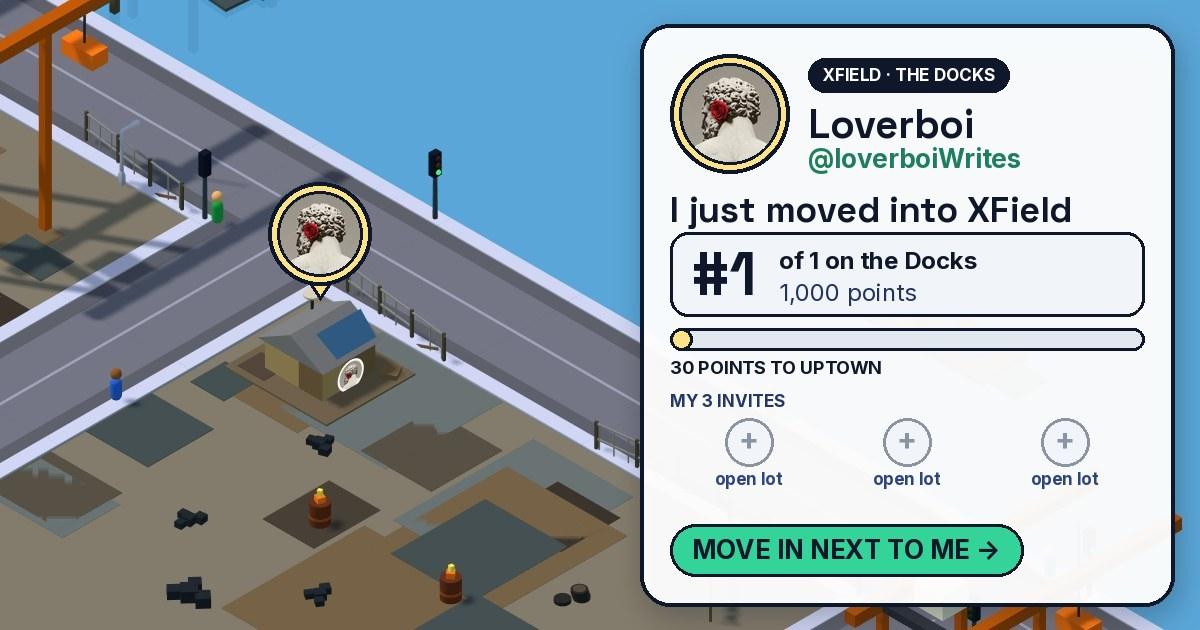
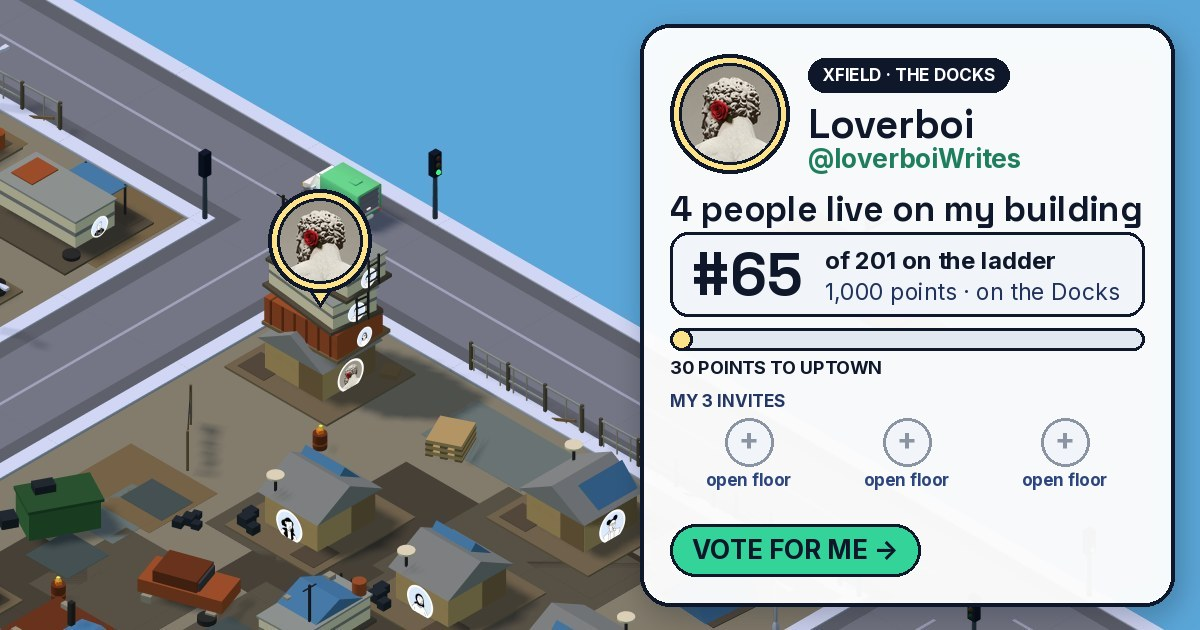
## The city now builds upward when it's full, with towers featuring their own leaderboard, paper coverage, and share card
I have implemented upward building when the city reaches its 200-spot limit and added tower-related features. Floors stack correctly as tested in preview, and the towers features are in place. The tests I ran, both on the server and within the app, met the specified checks. I also applied and re-verified small fixes.

- **Floors:** When ground spots fill, newcomers move onto floors of buildings, tied to who invited or shared the link, or the shortest building on the Docks. The design varies between Docks (tarp roof) and Uptown (glass with roof garden), and residents' faces appear on their floors.
- **Sample city:** 251 residents fill the 200 ground spots, with 52 floors stacked. The tallest building has 10 floors. Resident faces are stored app-side due to free avatar service limits.
- **Building details:** Tapping a building shows residents and floor info, including rank.
- **Leaderboard:** Shows tallest buildings, highlighting your own.
- **Tower share card:** Owners can share a preview image and link.
- **Daily paper:** Features stories on tallest and fastest-growing towers.
- **Additional tweaks:** Updates to live ticker and share card wording.

**Please test these features and let me know if you notice any issues or if further in-depth testing is needed.**

**Known issue:** The initial 3D city load can take around 10 seconds due to model download – this existed before these updates.

Emergent-Commit-Key: 65c07d6a09fd191e2ce3cd3f4565219d0912441ca143c877883d98c128c2a4d5

diff --git a/frontend/src/city3d/Hud.jsx b/frontend/src/city3d/Hud.jsx
@@ -34,7 +34,7 @@ const XLink = ({ href, onClick, className = "", testId, children }) => (
   <a href={href} target="_blank" rel="noreferrer" onClick={onClick} data-testid={testId}
     className={`rounded-lg bg-ink px-2.5 py-1.5 text-center text-xs font-bold text-white whitespace-nowrap hover:bg-slate-700 ${className}`}>{children}</a>
 );
-const Close = ({ onClick }) => <button type="button" onClick={onClick} className="self-start text-ink/40 hover:text-ink text-lg leading-none">×</button>;
+const Close = ({ onClick, testId }) => <button type="button" onClick={onClick} data-testid={testId} className="self-start text-ink/40 hover:text-ink text-lg leading-none">×</button>;
 const Heading = ({ children }) => <div className="mt-2 mb-1 text-[10px] font-bold uppercase tracking-widest text-ink/50">{children}</div>;
 const nameOf = (d) => d?.name || "New district";
 const names = (ps) => ps.map((p) => `@${p.h}`).join(ps.length > 2 ? ", " : " and ");
@@ -277,7 +277,7 @@ function BuildingInfo({ b, k, share, onVisit }) {
         <span data-testid="house-building-line">🏢 {line}</span>
         {b.rank && <span className="shrink-0 text-ink/60 tabular-nums" data-testid="house-building-rank">#{b.rank} tallest</span>}
       </div>
-      <ol className="mt-1.5 flex max-h-40 flex-col gap-0.5 overflow-y-auto" data-testid="house-building-people">
+      <ol className="mt-1.5 flex max-h-56 flex-col gap-0.5 overflow-y-auto" data-testid="house-building-people">
         {b.people.map((p) => (
           <li key={p.k}>
             <button type="button" onClick={() => onVisit(p)} data-testid={`house-building-floor-${p.floor}`}
@@ -317,7 +317,7 @@ export function HouseCard({ house, nb, signedIn, onChanged, onLeft, onVisit, onC
             {nb && <> · <b style={{ color: nb.color }}>{nameOf(nb)}</b></>}
           </div>
         </div>
-        <Close onClick={onClose} />
+        <Close onClick={onClose} testId="house-card-close" />
       </div>
       {l && <div className="mt-2 text-xs"><Standing l={l} /></div>}
       {fresh && <BuildingInfo b={fresh.building} k={o.k} onVisit={onVisit}
@@ -337,7 +337,7 @@ export function AwayCard({ news, onVisit, onClose }) {
     <div className={`${CARD} pop w-[min(92vw,340px)] p-3 pointer-events-auto`}>
       <div className="flex items-center justify-between">
         <div className="font-display font-bold">While you were away</div>
-        <Close onClick={onClose} />
+        <Close onClick={onClose} testId="away-card-close" />
       </div>
       <ul className="mt-1.5 space-y-1 text-xs">
         {news.slice(0, 6).map((n) => (
@@ -387,9 +387,9 @@ export function PlaceCard({ id, town, city, me, onVisit, onClose }) {
     <div className={`${CARD} pop w-[min(92vw,360px)] p-3 pointer-events-auto`} data-testid={`place-card-${id}`}>
       <div className="flex items-center justify-between">
         <div className="font-display font-bold text-lg">{PLACES[id]}</div>
-        <Close onClick={onClose} />
+        <Close onClick={onClose} testId="place-card-close" />
       </div>
-      <div className="max-h-[55vh] overflow-y-auto">
+      <div className="max-h-[45vh] overflow-y-auto">
         {id === "hall" && <Hall town={town} onVisit={onVisit} />}
         {id === "timeline" && <Timeline events={town.ticker} />}
         {id === "post" && <PostOffice me={me} />}
@@ -424,7 +424,7 @@ function Towers({ town, homes, me, onVisit }) {
                 <span className="w-5 shrink-0 font-bold tabular-nums text-ink/50">{i + 1}.</span>
                 <Face p={h.owner} size={26} ring={h.owner.s === "f" ? WARM : "#CBD5E1"} dim={h.owner.s !== "f"} />
                 <span className="min-w-0 flex-1 leading-tight">
-                  <b className="block truncate">@{h.owner.h}'s building</b>
+                  <b className="block truncate">@{h.owner.h}</b>
                   <span className="text-[11px] text-ink/60">{areaOf(h.owner)} · {lit} lit{mine ? " · you live here" : ""}</span>
                 </span>
                 <span className="flex -space-x-1.5">

diff --git a/frontend/src/pages/CityPage.jsx b/frontend/src/pages/CityPage.jsx
@@ -189,6 +189,11 @@ export default function CityPage() {
   const visit = (p) => homeOf[p.k] && pick(homeOf[p.k]);
   const closePaper = () => {
     if (issue) localStorage.setItem("xf_paper", String(issue));
+    const url = new URL(window.location.href);
+    if (url.searchParams.has("place")) {
+      url.searchParams.delete("place");
+      window.history.replaceState(null, "", url.pathname + url.search);
+    }
     setPlace(null);
   };
   const markDone = (step) => api("/me/done", { method: "POST", body: { step } }).then(loadMe).catch(() => {});

diff --git a/backend/tests/test_floors_towers.py b/backend/tests/test_floors_towers.py
@@ -1,0 +1,133 @@
+"""XField 'building up' (floors + towers Phase 2) regression tests. Read-only against the preview DB."""
+import io
+import os
+import re
+
+import pytest
+import requests
+from PIL import Image
+
+BASE_URL = os.environ.get("REACT_APP_BACKEND_URL", "").rstrip("/")
+if not BASE_URL:
+    for line in open("/app/frontend/.env"):
+        if line.startswith("REACT_APP_BACKEND_URL="):
+            BASE_URL = line.split("=", 1)[1].strip().rstrip("/")
+API = f"{BASE_URL}/api"
+S = requests.Session()
+
+
+def res(h):
+    r = S.get(f"{API}/residents/{h}", timeout=30)
+    assert r.status_code == 200, r.text
+    return r.json()
+
+
+def jpeg(url, size=(1200, 630)):
+    r = S.get(url, timeout=60)
+    assert r.status_code == 200, r.status_code
+    assert r.headers["content-type"].startswith("image/jpeg")
+    im = Image.open(io.BytesIO(r.content))
+    assert im.format == "JPEG"
+    if size:
+        assert im.size == size, im.size
+    return im
+
+
+@pytest.fixture(scope="module")
+def town():
+    r = S.get(f"{API}/town", timeout=30)
+    assert r.status_code == 200
+    return r.json()
+
+
+# Town stats + floor residents
+class TestTown:
+    def test_stats(self, town):
+        st = town["stats"]
+        assert st["taken"] == 200 and st["capacity"] == 200 and st["floors"] >= 50, st
+
+    def test_floor_residents_geometry(self, town):
+        rs = town["residents"]
+        floors = [r for r in rs if r.get("lv") is not None and r.get("lv") >= 1]
+        assert len(floors) >= 50
+        assert all(r.get("on") in ("dock", "lot") for r in floors)
+        grounds = [r for r in rs if r.get("lv") is None]
+        dock_ground = {r["d"] for r in grounds if r.get("d") is not None}
+        lot_ground = {(r["x"], r["y"]) for r in grounds if r.get("d") is None}
+        for r in floors:
+            if r["on"] == "dock":
+                assert r.get("d") in dock_ground, r
+            else:
+                assert (r["x"], r["y"]) in lot_ground, r
+
+
+# Resident building block
+class TestBuilding:
+    @pytest.mark.parametrize("h,floor,size,area,rank", [
+        ("arjun_reads", 1, 10, "docks", 1), ("theo_makes", 1, 9, "uptown", 3),
+        ("jonas_trades", 1, 9, "uptown", 2), ("loverboiWrites", 1, 4, "docks", 4)])
+    def test_owner_buildings(self, h, floor, size, area, rank):
+        b = res(h)["building"]
+        assert (b["floor"], b["size"], b["area"], b["rank"]) == (floor, size, area, rank), b
+        assert b["of"] >= rank
+        assert b["people"][0]["floor"] == size  # top floor first
+        assert b["people"][-1]["floor"] == 1
+        assert all("s" in p for p in b["people"])
+        assert {"k", "h", "a"} <= set(b["base"])
+
+    def test_sana_floor2(self):
+        d = res("sana_sings")
+        assert d["building"]["floor"] == 2 and d["building"]["base"]["h"] == "theo_makes"
+        assert d["share"]["text"].startswith("I live on floor 2 of @theo_makes's building uptown in XField"), d["share"]["text"]
+        assert "tower_share" not in d
+
+    def test_single_home(self, town):
+        rs = town["residents"]
+        stacked_keys = {r.get("d") for r in rs if r.get("lv")} | {(r["x"], r["y"]) for r in rs if r.get("lv") and r.get("on") == "lot"}
+        single = next(r for r in rs if r.get("lv") is None and r.get("d") not in stacked_keys
+                      and (r["x"], r["y"]) not in stacked_keys and (r.get("d") is not None or True))
+        d = res(single["h"])
+        assert d["building"]["size"] == 1 and d["building"]["rank"] is None, d["building"]
+        assert "tower_share" not in d
+
+
+# Tower share text / card / OG page
+class TestTowerShare:
+    def test_tower_share_text(self):
+        t = res("arjun_reads")["tower_share"]
+        assert t["text"].startswith("My building in XField is 10 floors tall on the Docks, #1 tallest in the city."), t["text"]
+        assert "Move in on top" in t["text"]
+        assert re.search(r"/api/t/arjun_reads\?v=", t["url"]) and "/api/residents/arjun_reads/tower.jpg?v=" in t["card_url"]
+
+    def test_tower_jpg_owner_and_floor(self):
+        jpeg(res("theo_makes")["tower_share"]["card_url"])
+        jpeg(f"{API}/residents/sana_sings/tower.jpg")
+
+    def test_og_bot(self):
+        r = S.get(f"{API}/t/theo_makes", headers={"User-Agent": "Twitterbot/1.0"}, allow_redirects=False, timeout=30)
+        assert r.status_code == 200
+        assert "@theo_makes&#x27;s building is 9 floors tall" in r.text or "@theo_makes's building is 9 floors tall" in r.text
+        assert re.search(r'og:image"[^>]*tower\.jpg|tower\.jpg[^>]*og:image', r.text)
+
+    def test_redirect_human(self):
+        r = requests.get(f"{API}/t/sana_sings", headers={"User-Agent": "Mozilla/5.0"}, allow_redirects=False, timeout=30)
+        assert r.status_code == 302 and r.headers["location"].endswith("/?at=theo_makes"), r.headers
+        assert "xf_invite=theo_makes" in r.headers.get("set-cookie", ""), r.headers.get("set-cookie")
+
+    def test_share_card_floor(self):
+        jpeg(f"{API}/residents/sana_sings/card.jpg", size=None)
+
+
+# Ledger towers
+class TestPaper:
+    def test_paper_towers(self):
+        r = S.get(f"{API}/paper/latest", timeout=30)
+        assert r.status_code == 200
+        p = r.json()
+        assert p["issue"] >= 3
+        tw = p["towers"]
+        got = [(t["h"], t["size"]) for t in tw]
+        assert got == [("arjun_reads", 10), ("jonas_trades", 9), ("theo_makes", 9), ("loverboiWrites", 4), ("theo_sings", 4)], got
+        assert all({"k", "h", "a", "size", "area", "grew"} <= set(t) for t in tw)
+        assert p["heights"] and p["numbers"]["floors"] >= 50
+        jpeg(p["card_url"], size=None)

diff --git a/backend/tests/floors_events_sim.py b/backend/tests/floors_events_sim.py
@@ -1,0 +1,53 @@
+"""Throwaway-DB check of moved_in event fields (on_h, lv) for floor arrivals. Run: DB_NAME=floors_sim_ev TOWN_CAPACITY=2"""
+import asyncio
+import os
+import sys
+
+sys.path.insert(0, os.path.dirname(os.path.dirname(__file__)))
+import server  # noqa: E402
+
+db = server.db
+
+
+async def arrive(h, by=None):
+    fb = {"handle": h, "name": h.title(), "avatar_url": None, "host": "test"}
+    await server.run_move_in(h.lower(), h, by, True, fb)
+    return await db.residents.find_one({"k": h.lower()}, {"_id": 0})
+
+
+async def ev(h):
+    return await db.events.find_one({"h": h, "type": "moved_in"}, {"_id": 0})
+
+
+async def main():
+    assert os.environ["DB_NAME"] == "floors_sim_ev"
+    await db.client.drop_database("floors_sim_ev")
+    await arrive("Alice")
+    await arrive("Bob")
+    e = await ev("Alice")
+    print("ground event", e)
+    assert e and "on_h" not in e and "lv" not in e, e
+    c = await arrive("Cara", by="bob")
+    e = await ev("Cara")
+    print("floor via link event", e)
+    assert e["on_h"] == "Bob" and e["lv"] == 1 == c["lv"], e
+    d = await arrive("Dan", by="bob")
+    e = await ev("Dan")
+    print("floor 2 event", e)
+    assert e["on_h"] == "Bob" and e["lv"] == 2, e
+    f = await arrive("Fay")
+    e = await ev("Fay")
+    print("random arrival event", e)
+    assert e["on_h"] == "Alice" and e["lv"] == 1, e
+    fact = server.FACTS["moved_in"](e) if hasattr(server, "FACTS") and callable(server.FACTS.get("moved_in")) else None
+    print("fact", fact)
+    blds = await server.load_buildings()
+    bob = await db.residents.find_one({"k": "bob"}, {"_id": 0})
+    t = server.tower_payload(bob, blds)
+    print("tower", t["size"], t["rank"], t["of"], server.tower_text(t))
+    assert t["size"] == 3 and t["rank"] == 1
+    await db.client.drop_database("floors_sim_ev")
+    print("ALL GOOD")
+
+
+asyncio.run(main())

diff --git a/backend/server.py b/backend/server.py
@@ -85,7 +85,7 @@ PAPER_DIR.mkdir(parents=True, exist_ok=True)
 CIRCLE_SIZE = 8
 INVITES = 3
 SNAP_W, SNAP_H = 1200, 630
-CARD_VERSION = 3
+CARD_VERSION = 4
 SNAP_GAP = timedelta(seconds=20)
 MIN_PLAYERS = 3
 READ_TTL = timedelta(days=7)
@@ -779,7 +779,7 @@ async def card_payload(doc: dict, st: dict) -> dict:
     return {"rv": CARD_VERSION, "k": doc["k"], "h": doc["h"], "name": doc.get("name"), "moment": moment,
             "uptown": bool(doc.get("uptown")), "color": nb.get("color"),
             "invites": [{"k": p["k"], "h": p["h"], "s": p["s"]} for p in invites],
-            "floor": bld["floor"], "size": bld["size"], "base_h": bld["base"]["h"],
+            "floor": bld["floor"], "size": bld["size"], "base_h": bld["base"]["h"], "full": await count_taken() >= TOWN_CAPACITY,
             "nb_name": nb.get("name"), "tags": st["tags"], "by_h": doc.get("by_h"), "by_k": by["k"] if by else None, "score": mine, "start": arena.START,
             "line": arena.UPTOWN_AT, "rank": 1 + sum(arena.score(d) > mine for d in pool) if playing else None, "of": len(pool),
             "neighbours": [{"k": n["k"], "status": "reserved" if n["s"] == "r" else "finished"} for n in st["neighbours"]],
@@ -914,6 +914,7 @@ async def resident(handle: str, request: Request):
     bld = building_of(doc, blds)
     tower = tower_payload(doc, blds) if bld["size"] > 1 else None
     bld["rank"], bld["of"] = (tower["rank"], tower["of"]) if tower else stacks.rank_of(stacks.key_of(doc), blds)
+    tower = tower if bld["floor"] == 1 else None
     out = {"building": bld, "k": doc["k"], "h": doc["h"], "name": doc.get("name"), "avatar_url": doc.get("avatar_url"),
            "status": "finished" if doc["status"] == "finished" else "reserved", "x": doc["x"], "y": doc["y"],
            "tier": st["tier"], "tier_name": town.TIERS[st["tier"]], "inbound": st["inbound"], "by_h": doc.get("by_h"),

diff --git a/backend/share_card.py b/backend/share_card.py
@@ -200,9 +200,9 @@ def _rank(d, data, x0, y, w):
     d.text((x0 + 22, y + (84 - (bb[3] - bb[1])) / 2 - bb[1]), big, font=font, fill=INK)
     tx = x0 + 22 + (bb[2] - bb[0]) + 22
     where = "uptown" if data["moment"] == "uptown" else "on the Docks"
-    top = f"of {data['of']} {where}" if data.get("rank") else f"Not ranked yet, {where}"
+    top = f"of {data['of']} on the ladder" if data.get("rank") else f"Not ranked yet, {where}"
     d.text((tx, y + 13), top, font=_fitw(d, top, BODY, x0 + w - tx - 16, 24), fill=INK)
-    pts = f"{data['score']:,} points"
+    pts = f"{data['score']:,} points \u00b7 {where}" if data.get("rank") else f"{data['score']:,} points"
     d.text((tx, y + 45), pts, font=_fitw(d, pts, BODY, x0 + w - tx - 16, 24, False), fill=_shade(INK, 2.2))
     return y + 84 + 12
 
@@ -237,7 +237,7 @@ def _invites(img, d, data, avatars, x0, y, w):
             plus = _font(BODY, 30, True)
             bb = d.textbbox((0, 0), "+", font=plus)
             d.text((sx + (size - (bb[2] - bb[0])) / 2 - bb[0], y + (size - (bb[3] - bb[1])) / 2 - bb[1]), "+", font=plus, fill=NEUTRAL)
-            text, color = "open lot", _shade(INK, 3.0)
+            text, color = ("open floor" if data.get("full") else "open lot"), _shade(INK, 3.0)
         tw = slot - 8
         f = _fitw(d, text, BODY, tw, 17, low=13)
         text = _clip(d, text, f, tw)

diff --git a/backend/tests/test_share_card_v3.py b/backend/tests/test_share_card_v3.py
@@ -49,8 +49,8 @@ def test_share_url_hash(res):
 
 
 def test_share_text_rank(res):
-    assert res["share"]["moment"] == "join"
-    assert "I'm #1 of 1 on the Docks" in res["share"]["text"], res["share"]["text"]
+    assert res["share"]["moment"] in ("join", "vote")
+    assert re.search(r"#\d+ of \d+ on the Docks", res["share"]["text"]), res["share"]["text"]
 
 
 # Share page OG for bots / redirect for humans
@@ -63,7 +63,7 @@ def test_share_page_bot(res):
     assert 'og:image:width" content="1200"' in t and 'og:image:height" content="630"' in t
     assert 'twitter:card" content="summary_large_image"' in t
     desc = re.search(r'og:description" content="([^"]*)"', t).group(1)
-    assert "#1 of" in desc, desc
+    assert re.search(r"#\d+ of \d+", desc), desc
 
 
 def test_share_page_human(res):

diff --git a/memory/PRD.md b/memory/PRD.md
@@ -39,3 +39,20 @@
 - CARD_VERSION=3 in card payload busts old cached cards; share url is /api/s/{h}?v=<hash> so X re-crawls when the card changes; share/og text now include rank on first share.
 - Frontend snapshot key has SNAP_VERSION so every player's browser re-shoots the close-up on next visit. Players who haven't revisited get the drawn fallback scene with the same panel.
 - Tested: iteration_12 (backend 9/9, frontend 100%), tests in backend/tests/test_share_card_v3.py.
+
+## 2026-10-31: Building up when the city is full (Stacks Phase 1 verified + Phase 2 built)
+- Phase 1 (rules in backend/stacks.py, rendering in city3d/layout.js addHome + modern.js fd0-3/fdcap/fu0-1/fucap) verified on a full preview city: crooked container/plywood floors with a tarp cap on the Docks, glass floors with a roof garden uptown, faces on every floor.
+- Preview data (user chose to KEEP it): 251 sample residents (`sample: true`) fill all 200 ground spots + 52 floors. Seeder backend/tests/seed_full_city.py (one-shot), faces saved to frontend/public/sample-faces by backend/tests/sample_faces.py (DiceBear rate-limits browsers).
+- House card: building block (floor list top first, "Floor N of @x's building" / "N people live on this building", "#N tallest", 𝕏 Share my building for lit owners). Next move card: "N people live on my building · #N tallest" + 𝕏 Share. Hover tooltip shows floor/building.
+- Tallest buildings leaderboard: tap the "N floors built" chip (place card id "towers", also /?place=towers). Hall rules mention building up.
+- Tower share card: GET /api/residents/{h}/tower.jpg (backend/tower_card.py) + share page GET /api/t/{h} (OG for bots; humans land on /?at=owner and get the xf_invite cookie so they move in on top). /api/residents/{h}.tower_share only for the ground owner.
+- Ledger: paper stores towers (top 5 with grew since the last paper) + heights; facts and the AI prompt cover towers; plain fallback has tower stories; Newspaper "Tallest Buildings" box + "Floors built"; paper card adds "Floors built". Floor arrivals' moved_in events carry on_h/lv (ticker: "moved in on floor N of @x's building").
+- Share card v4: "of N on the ladder · uptown" wording, invites show "open floor" once the ground is full.
+- Tested: iteration_13 (backend 14/14 tests/test_floors_towers.py + floors_sim + floors_events_sim, frontend all flows). Fixes after: tower_share owner-only, URL ?place cleared on paper close, close-button testids, shorter leaderboard rows.
+
+## Backlog
+- P1 Phase 3 stacks: residents name their building together, inside-building view, penthouse (top floor) perk.
+- P1 Progressive 3D loading (one Suspense boundary holds the whole city until every model loads; ~10s on a cold load).
+- P2 Cache load_buildings per town version (scans all residents per /residents and card request).
+- P2 Drawn fallback share card shows a lone house for floor residents (real players get the 3D snapshot).
+- Earlier P1/P2 items above still open (data-testids across v3 UI, mobile sign-in card overlap, 2D route clean-up).
